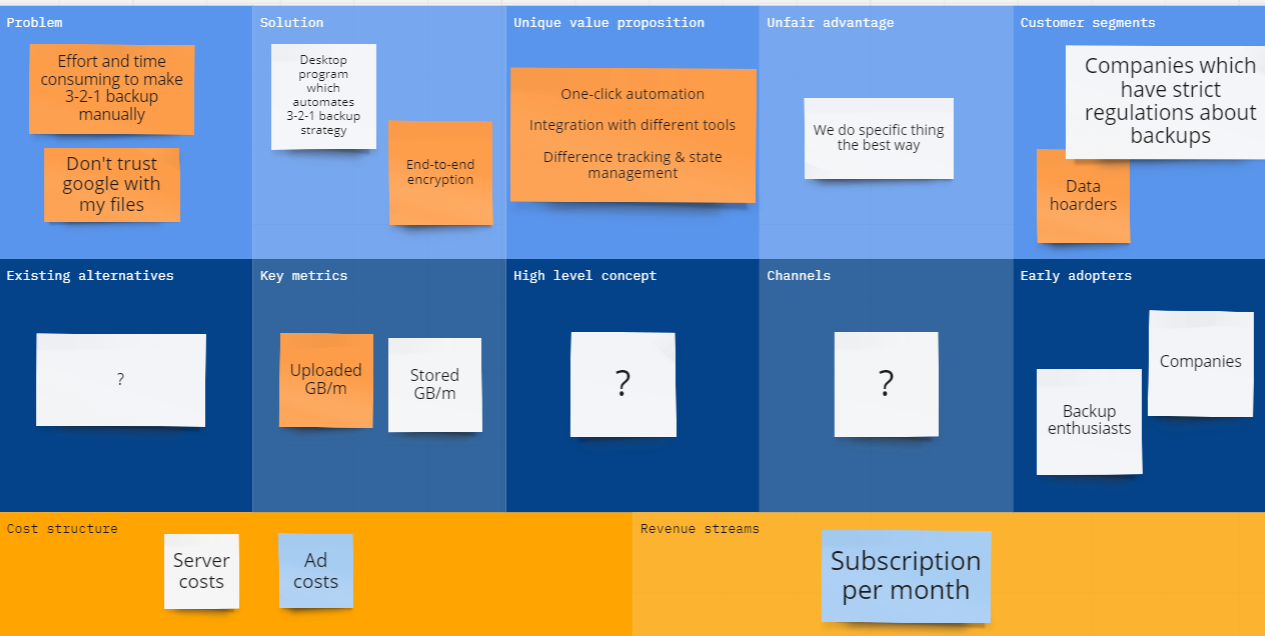
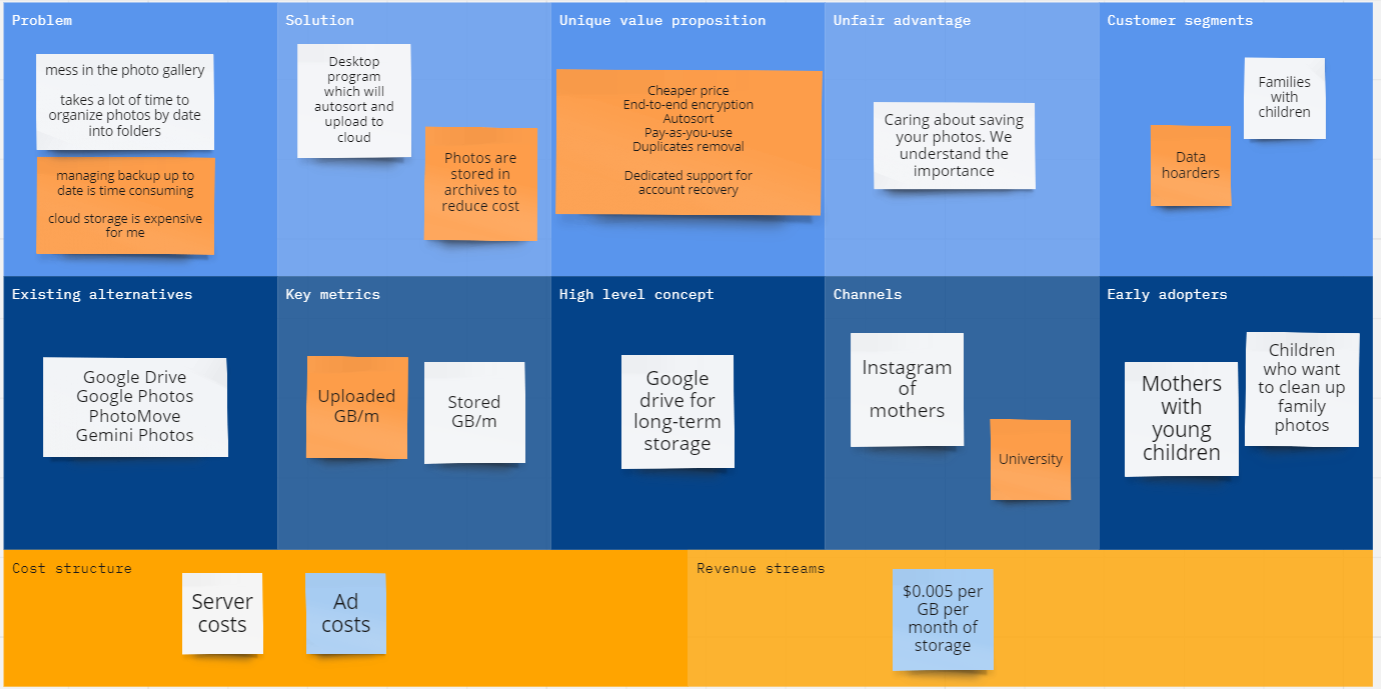
docs(GITBOOK-19): Fill in startup notes

diff --git a/events/2023-q4-startup-school-by-startup-depot-family-archive/2023.10.23-second-intro.md b/events/2023-q4-startup-school-by-startup-depot-family-archive/2023.10.23-second-intro.md
@@ -1,2 +1,28 @@
-# 23.10.2023 - Second intro
+# 2023.10.23 - Second intro
 
+## Meeting
+
+We got to know each other better. It was inspiring to see people who strive to create new startups and solve problems.
+
+<figure><img src="../../.gitbook/assets/image.png" alt=""><figcaption><p>Zoom meeting</p></figcaption></figure>
+
+## Schedule
+
+The incubator program consists of:
+
+* 7 webinars
+* optional 30 min individual mentor meetings
+* pitch day
+
+Also, organizers outlined for us the best result that we could achieve during this program:
+
+* analyse the market
+* understand the customer
+* build MVP
+* acquire at least 1 customer
+
+At the end of the program there will be a pitch day, where we can pitch our startups to investors and can receive funding.
+
+## Afterparty
+
+The day before I read "The Mom Test" book and was ready to test my knowdledge on my relatives. So after the meeting I went to my mom and aunt. We had a beautiful conversation about photos, where I got a lot of insights about how they manage their albums. However I also heard a strong signal that they won't use, pay or even search for a solution to a problem, because it is not that of a big problem.

diff --git a/events/2023-q4-startup-school-by-startup-depot-family-archive/2023.10.26-defining-business-idea.md b/events/2023-q4-startup-school-by-startup-depot-family-archive/2023.10.26-defining-business-idea.md
@@ -1,2 +1,32 @@
-# 26.10.2023 - Defining business idea
+# 2023.10.26 - Defining business idea
 
+## &#x20;Intro
+
+Startup is about critical value that it brings.
+
+> Usually, it comes in a form of process optimization or assistance, which results in reducing effort/time/money for business.&#x20;
+
+If you want to make world a better place - earn money and power. With these resources changing world would be much easier task.
+
+## Critical value
+
+Critical value is a problem-solution pair. Concentrate on one CA, if you have long worded CA, then you probably have multiple problem-solution pairs, so split them up.
+
+"Why I haven't seen it before?", - client emotion which your startup should create.
+
+Define your ideal customer. Define your buyer persona (could be different from person benefiting from solution)
+
+## Team
+
+Team size corelates with sales. More sales -> more team.
+
+Everything that prevents sales should be solved with people.
+
+Talk with each other on this program.
+
+Things that slow down idea growth
+
+* Lack of trust
+* Compensation (You don't start a startup just to prove that you can)
+* Fear of numbers
+* Perfectionism

diff --git a/SUMMARY.md b/SUMMARY.md
@@ -23,7 +23,10 @@
   * [2023.10.26 - Defining business idea](events/2023-q4-startup-school-by-startup-depot-family-archive/2023.10.26-defining-business-idea.md)
   * [2023.10.27 - Market analysis & ICP](events/2023-q4-startup-school-by-startup-depot-family-archive/2023.10.27-market-analysis-and-icp.md)
   * [2023.11.02 - Customer development](events/2023-q4-startup-school-by-startup-depot-family-archive/2023.11.02-customer-development.md)
+  * [2023.11.09 - Customer development #2](events/2023-q4-startup-school-by-startup-depot-family-archive/2023.11.09-customer-development-2.md)
+  * [2023.11.14 - Business model](events/2023-q4-startup-school-by-startup-depot-family-archive/2023.11.14-business-model.md)
   * [2023.11.15 - Підготовка до зустрічі](events/2023-q4-startup-school-by-startup-depot-family-archive/2023.11.15-pidgotovka-do-zustrichi.md)
+  * [2023.11.16 - Зустріч з ментором](events/2023-q4-startup-school-by-startup-depot-family-archive/2023.11.16-zustrich-z-mentorom.md)
 
 ## 🛠 Tools
 

diff --git a/events/2023-q4-startup-school-by-startup-depot-family-archive/2023.11.15-pidgotovka-do-zustrichi.md b/events/2023-q4-startup-school-by-startup-depot-family-archive/2023.11.15-pidgotovka-do-zustrichi.md
@@ -22,11 +22,11 @@
 
 ### Зберігання фото для сімей
 
-<figure><img src="../../.gitbook/assets/image.png" alt=""><figcaption><p>Lean canvas for families</p></figcaption></figure>
+<figure><img src="../../.gitbook/assets/image (1).png" alt=""><figcaption><p>Lean canvas for families</p></figcaption></figure>
 
 ### Програма для автоматичного 3-2-1 бекапа (Звузити авдиторію)
 
-<figure><img src="../../.gitbook/assets/image (1).png" alt=""><figcaption><p>Lean canvas for geeks</p></figcaption></figure>
+<figure><img src="../../.gitbook/assets/image (1) (1).png" alt=""><figcaption><p>Lean canvas for geeks</p></figcaption></figure>
 
 ### Сервіс для архівування документів на довгий строк (Змінити на B2B)
 

diff --git a/events/2023-q4-startup-school-by-startup-depot-family-archive/2023.11.16-zustrich-z-mentorom.md b/events/2023-q4-startup-school-by-startup-depot-family-archive/2023.11.16-zustrich-z-mentorom.md
@@ -1,0 +1,2 @@
+# 2023.11.16 - Зустріч з ментором
+

diff --git a/events/2023-q4-startup-school-by-startup-depot-family-archive/2023.11.09-customer-development-2.md b/events/2023-q4-startup-school-by-startup-depot-family-archive/2023.11.09-customer-development-2.md
@@ -1,0 +1,2 @@
+# 2023.11.09 - Customer development #2
+

diff --git a/events/2023-q4-startup-school-by-startup-depot-family-archive/2023.11.14-business-model.md b/events/2023-q4-startup-school-by-startup-depot-family-archive/2023.11.14-business-model.md
@@ -1,0 +1,2 @@
+# 2023.11.14 - Business model
+
